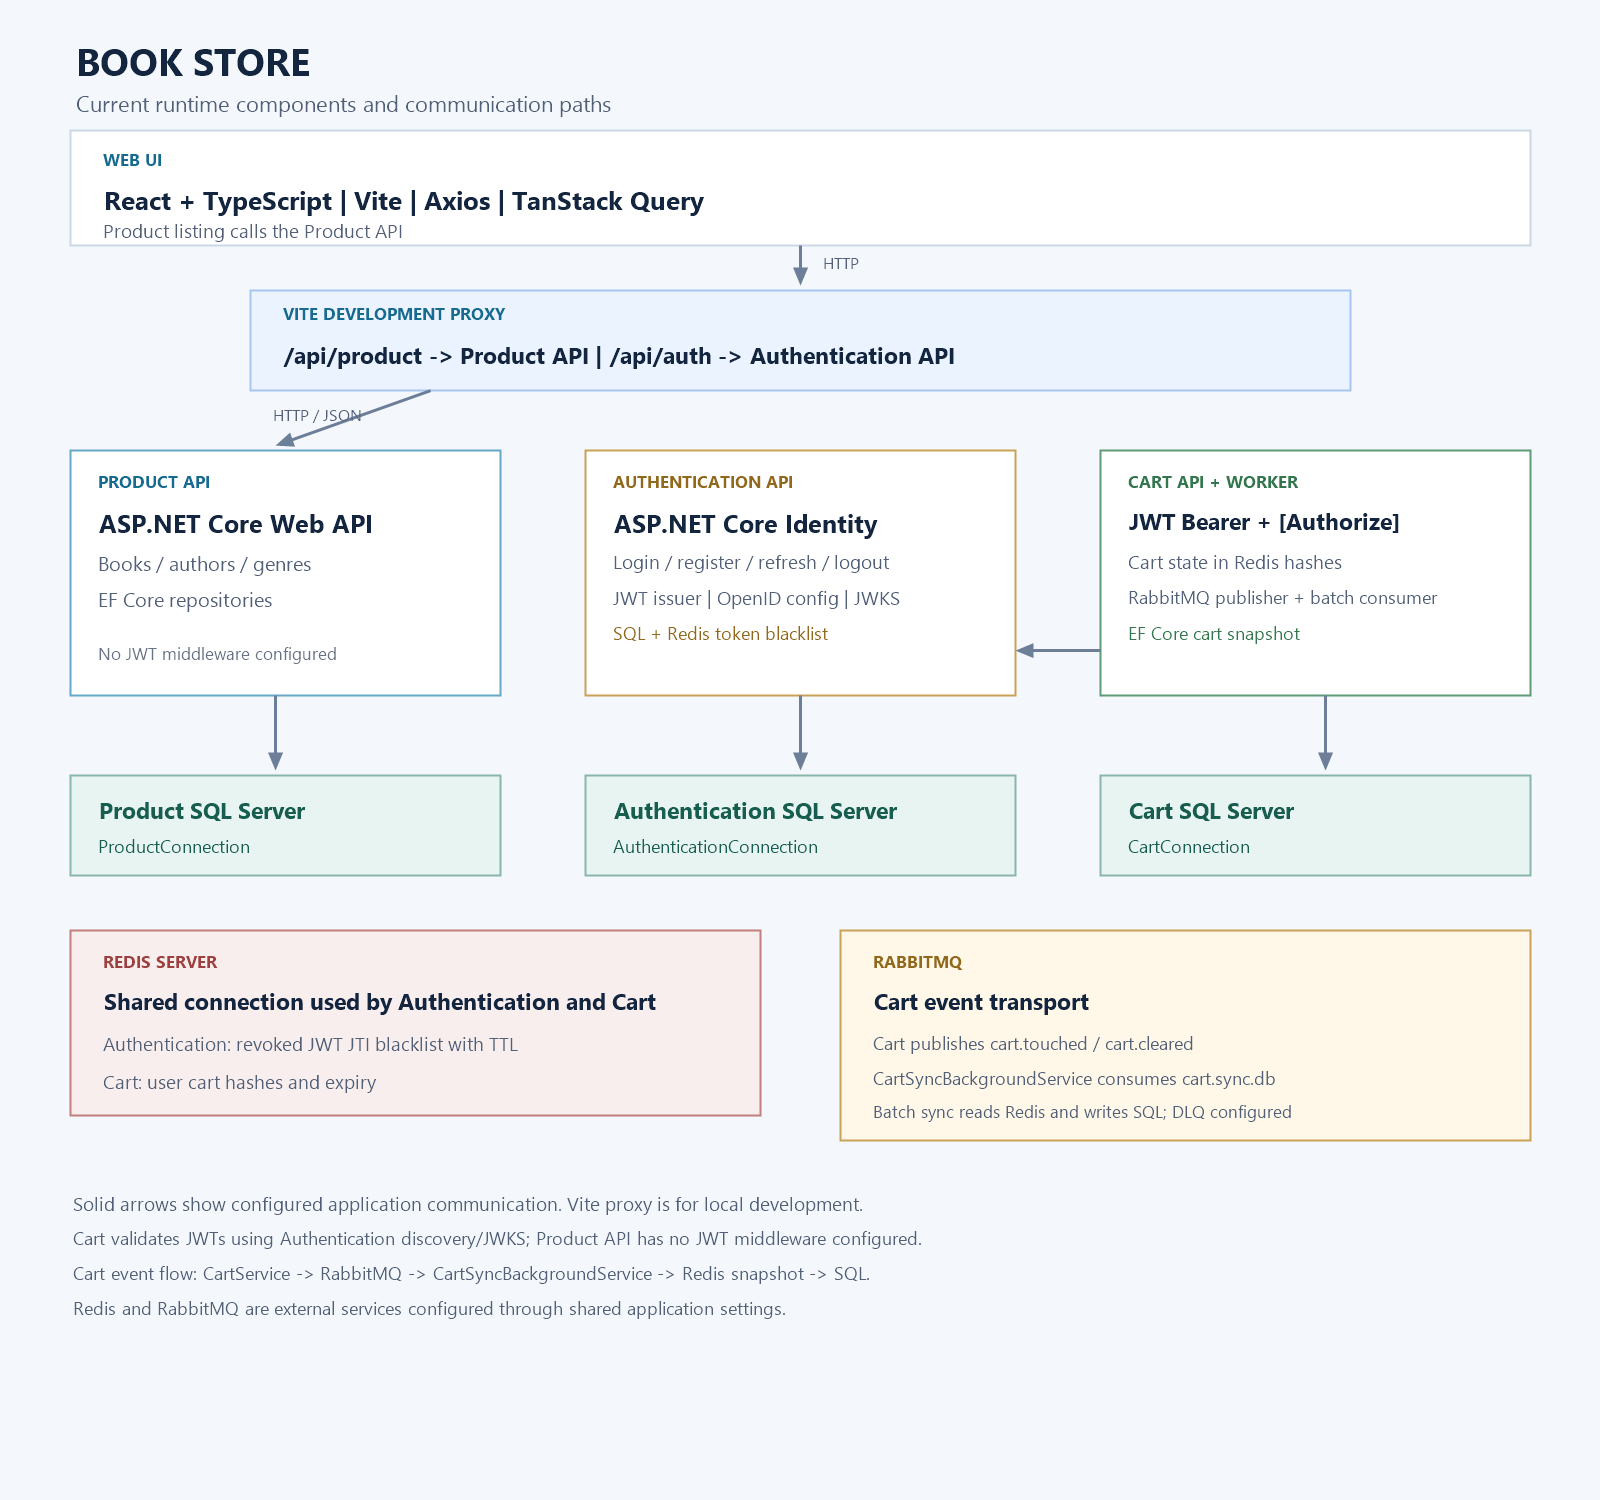
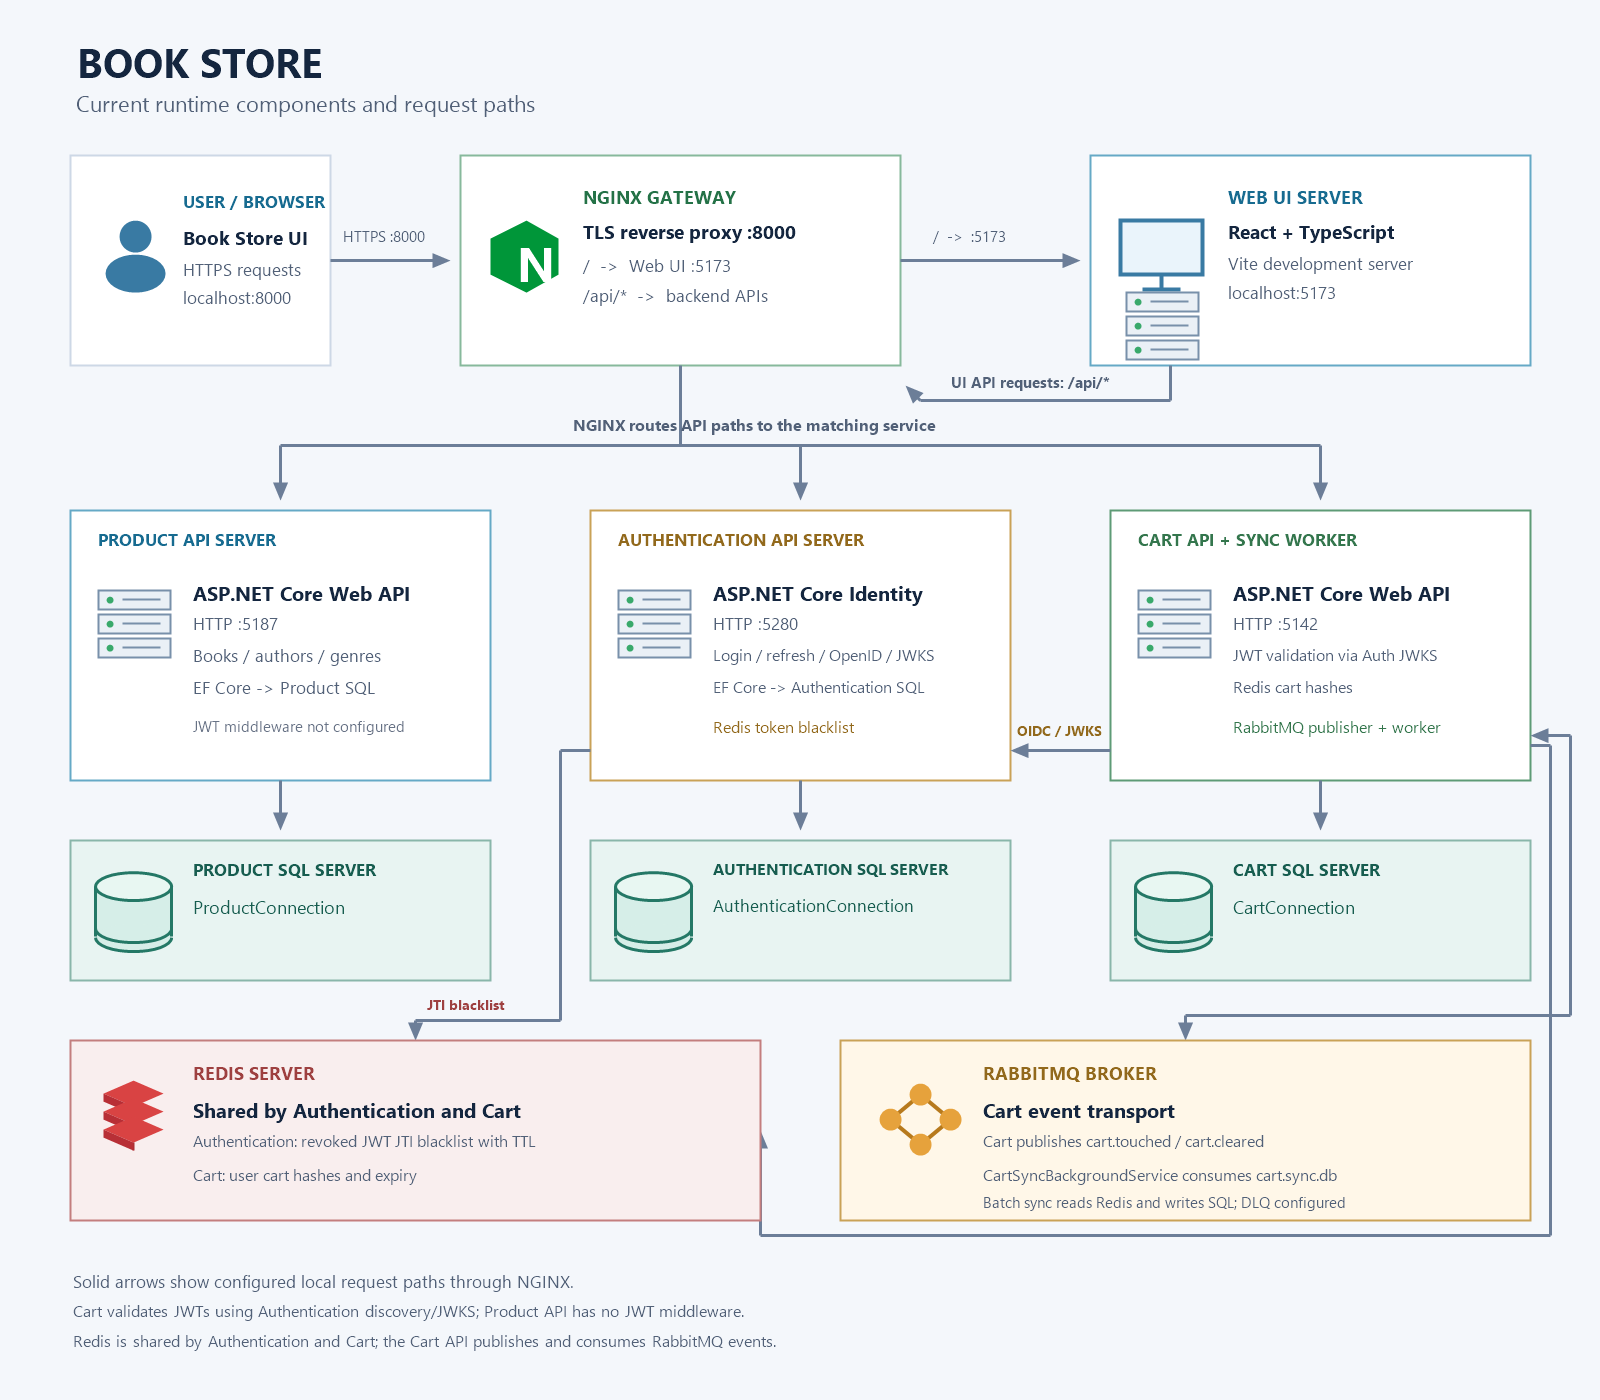
refactor: update architecture

diff --git a/README.md b/README.md
@@ -4,22 +4,24 @@
 
 ## Architecture
 
-![Book Store architecture: React UI, Vite development proxy, Product and Authentication services with separate SQL Server databases](resource/bookstore_architecture.png)
+![Book Store architecture: browser and React UI access Product, Authentication, and Cart services through the NGINX gateway, with SQL Server, Redis, and RabbitMQ](resource/bookstore_architecture.png)
 
-The diagram reflects the current local-development structure:
+The diagram shows the current local-development request paths:
 
-- The React UI calls the Product API through the Vite development proxy.
-- Product and Authentication use EF Core with separate SQL Server databases.
-- Authentication is in progress: Identity, refresh-token persistence and
-  JWKS/discovery endpoints exist, but login actions and UI integration are not
-  implemented yet. Its Vite proxy route is configured.
-- Order and RabbitMQ are planned, not implemented. There is no message-broker
-  connection between the services.
+- The browser reaches the React UI through NGINX over HTTPS on port 8000.
+  NGINX forwards `/` to the Vite server on port 5173.
+- UI API calls go back through NGINX: `/api/product/` routes to Product on
+  port 5187, `/api/auth/` to Authentication on port 5280, and `/api/cart/` to
+  Cart on port 5142.
+- Product, Authentication, and Cart use separate EF Core SQL Server databases.
+- Authentication and Cart share Redis for the revoked-token blacklist and cart
+  state. Cart publishes and consumes events through RabbitMQ and syncs cart
+  snapshots to SQL Server.
 
-Solid arrows represent implemented code paths; the dashed arrow represents the
-configured Auth proxy, not a working login flow. Database boxes show configured
-targets, not deployment status. Vite's proxy is development-only, not a production
-API gateway.
+Solid arrows represent configured local application paths. The diagram does
+not imply that the local services or external infrastructure are deployed.
+Cart validates JWTs using Authentication discovery/JWKS; Product currently has
+no JWT authentication middleware configured.
 
 To regenerate the PNG on Windows after editing
 [the diagram script](resource/generate-architecture.ps1), run from the repository
